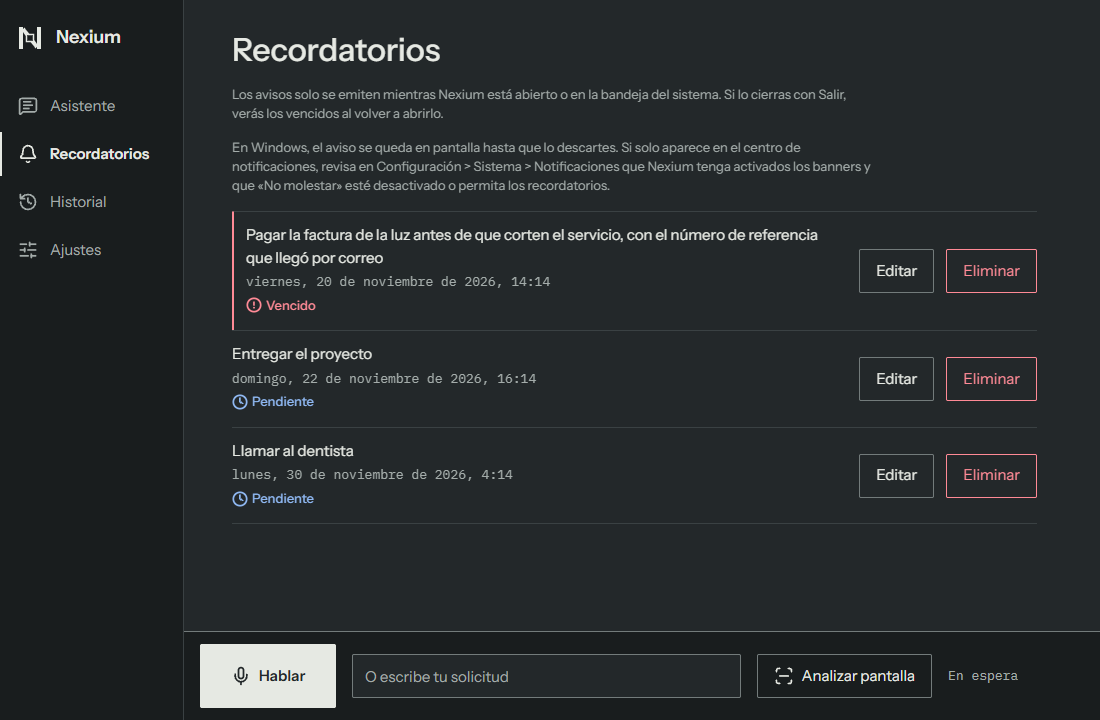
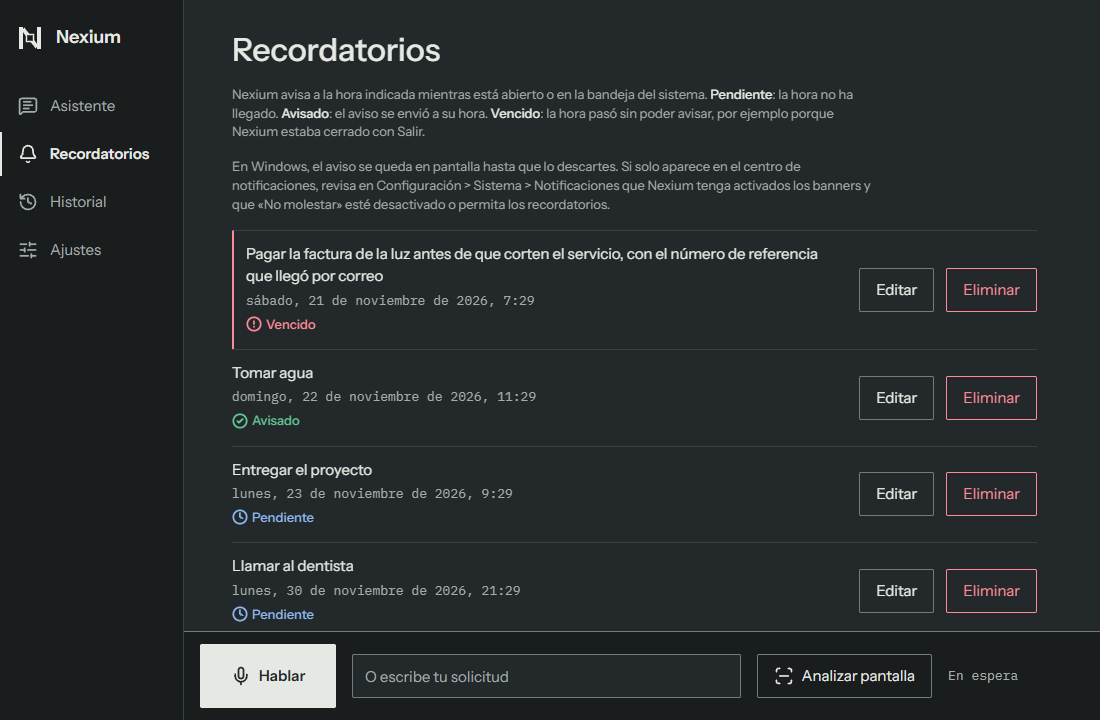
docs(readme): captura de Recordatorios con los tres estados

diff --git a/README.md b/README.md
@@ -9,7 +9,7 @@ Los hechos salen del equipo, no de un modelo. La IA interpreta lo que pides, per
 | | |
 |---|---|
 | ![Lectura de la memoria en uso, en tema claro](docs/capturas/asistente-lectura-claro.png) | ![Clima actual y pronóstico de Open-Meteo, en tema claro](docs/capturas/asistente-clima-claro.png) |
-| ![Recordatorios pendientes y vencidos, en tema oscuro](docs/capturas/recordatorios-oscuro.png) | |
+| ![Recordatorios vencido, avisado y pendientes, en tema oscuro](docs/capturas/recordatorios-oscuro.png) | |
 
 ## Funciones
 
